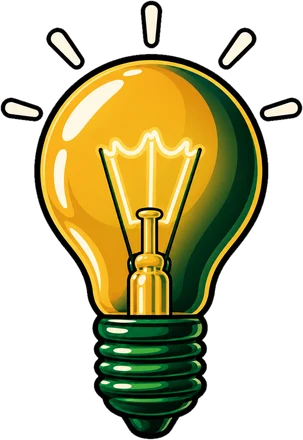
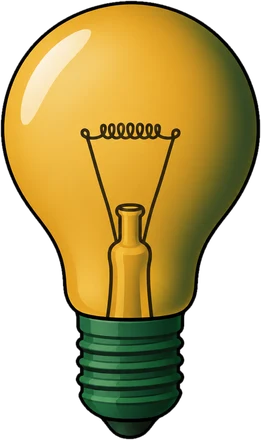
Original beers back; new drawings redone to match the approved v5 set
- public/decor/beers.webp restored to the approved original
- Burger, wings, light bulb, pint + clock and title belt redone in the
  approved v5 style (clean clip-art, medium outline, soft shading, muted
  colours, green shadow edge, no extras); rejected versions and the
  unused microphone removed

diff --git a/components/Decor.tsx b/components/Decor.tsx
@@ -21,9 +21,9 @@ export type DecorName =
   | "baseball-bat"
   | "burger"
   | "wings"
-  | "microphone"
   | "happy-hour"
-  | "title-belt";
+  | "title-belt"
+  | "lightbulb";
 
 // width / height of each trimmed drawing in public/decor
 const ASPECT: Record<DecorName, number> = {
@@ -37,11 +37,11 @@ const ASPECT: Record<DecorName, number> = {
   "foam-finger": 248 / 440,
   "mma-gloves": 415 / 440,
   "baseball-bat": 440 / 282,
-  burger: 385 / 440,
-  wings: 440 / 416,
-  microphone: 361 / 440,
-  "happy-hour": 440 / 410,
-  "title-belt": 440 / 258,
+  burger: 440 / 405,
+  wings: 440 / 288,
+  "happy-hour": 440 / 399,
+  lightbulb: 261 / 440,
+  "title-belt": 440 / 242,
 };
 
 export interface DecorSpot {
